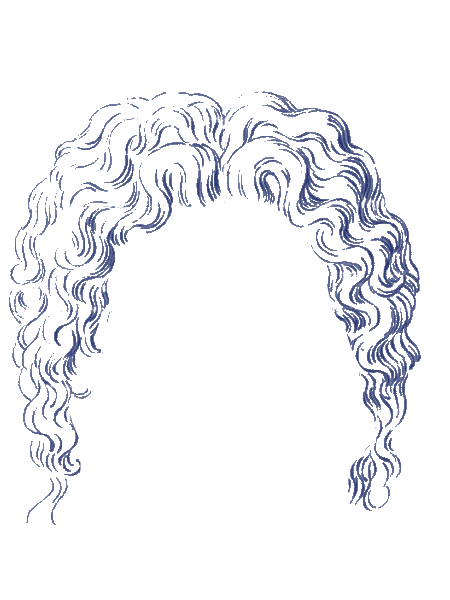
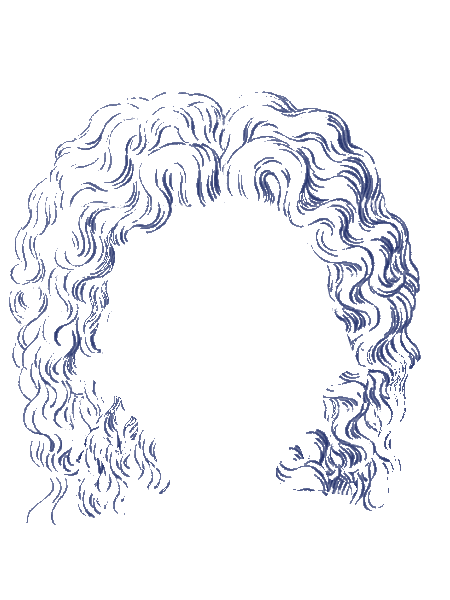
Added pictures from New Source
(partly) different style faces from, Lavater

diff --git a/elements/rorschachhamster/README.md b/elements/rorschachhamster/README.md
@@ -1,4 +1,4 @@
-Some of the images in this folder have been drawn by
+Some of the images in this folder have been drawn by
 [Christian Sturke](http://rorschachhamster.wordpress.com/) and dedicated to the
 [public domain](LICENSE). Enjoy!
 
@@ -16,3 +16,5 @@ The other images are taken from the following books:
 * "Dissertation sur un traité de Charles Le Brun, concernant le
   rapport de la physionomie humaine avec celle des animaux" in einem
   PDF von der Université de Strassbourg
+
+* "Physiognomische Fragmente, zur Beförderung der Menschenkenntnis und Menschenliebe, von Johann Caspar Lavatar, Vierter Versuch" in einem PDF der Université de Strassbourg 
